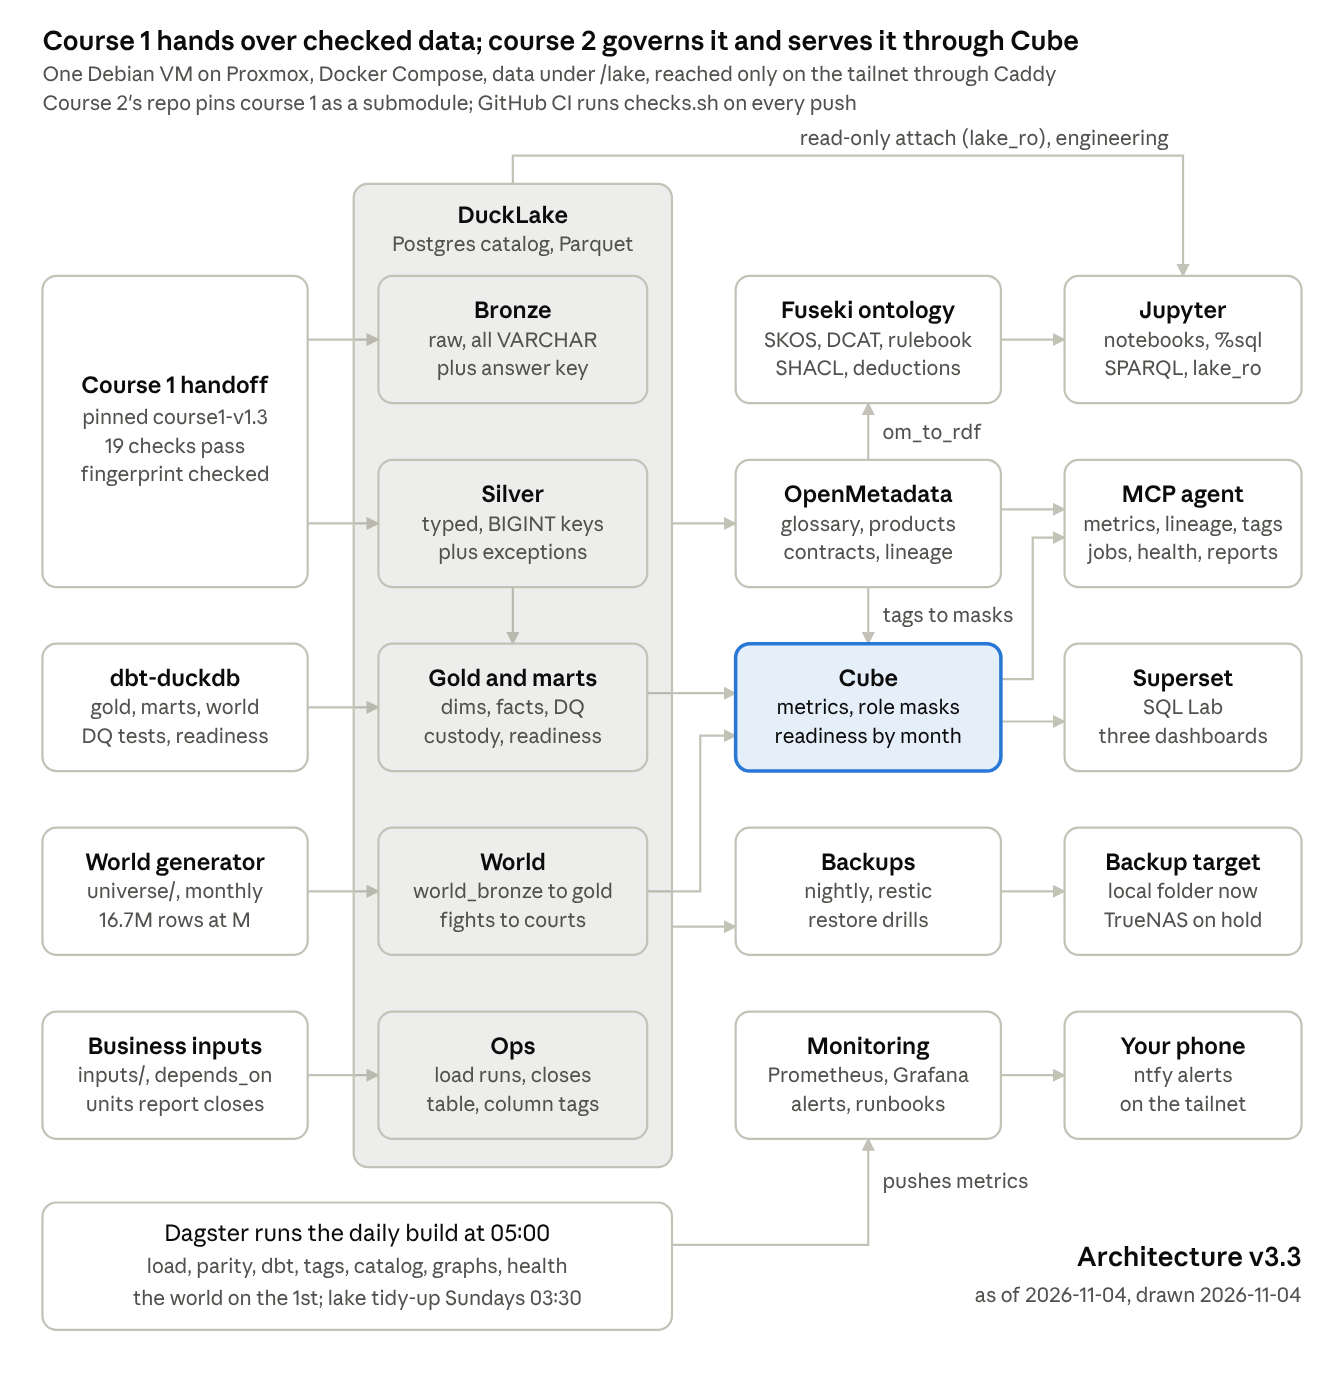
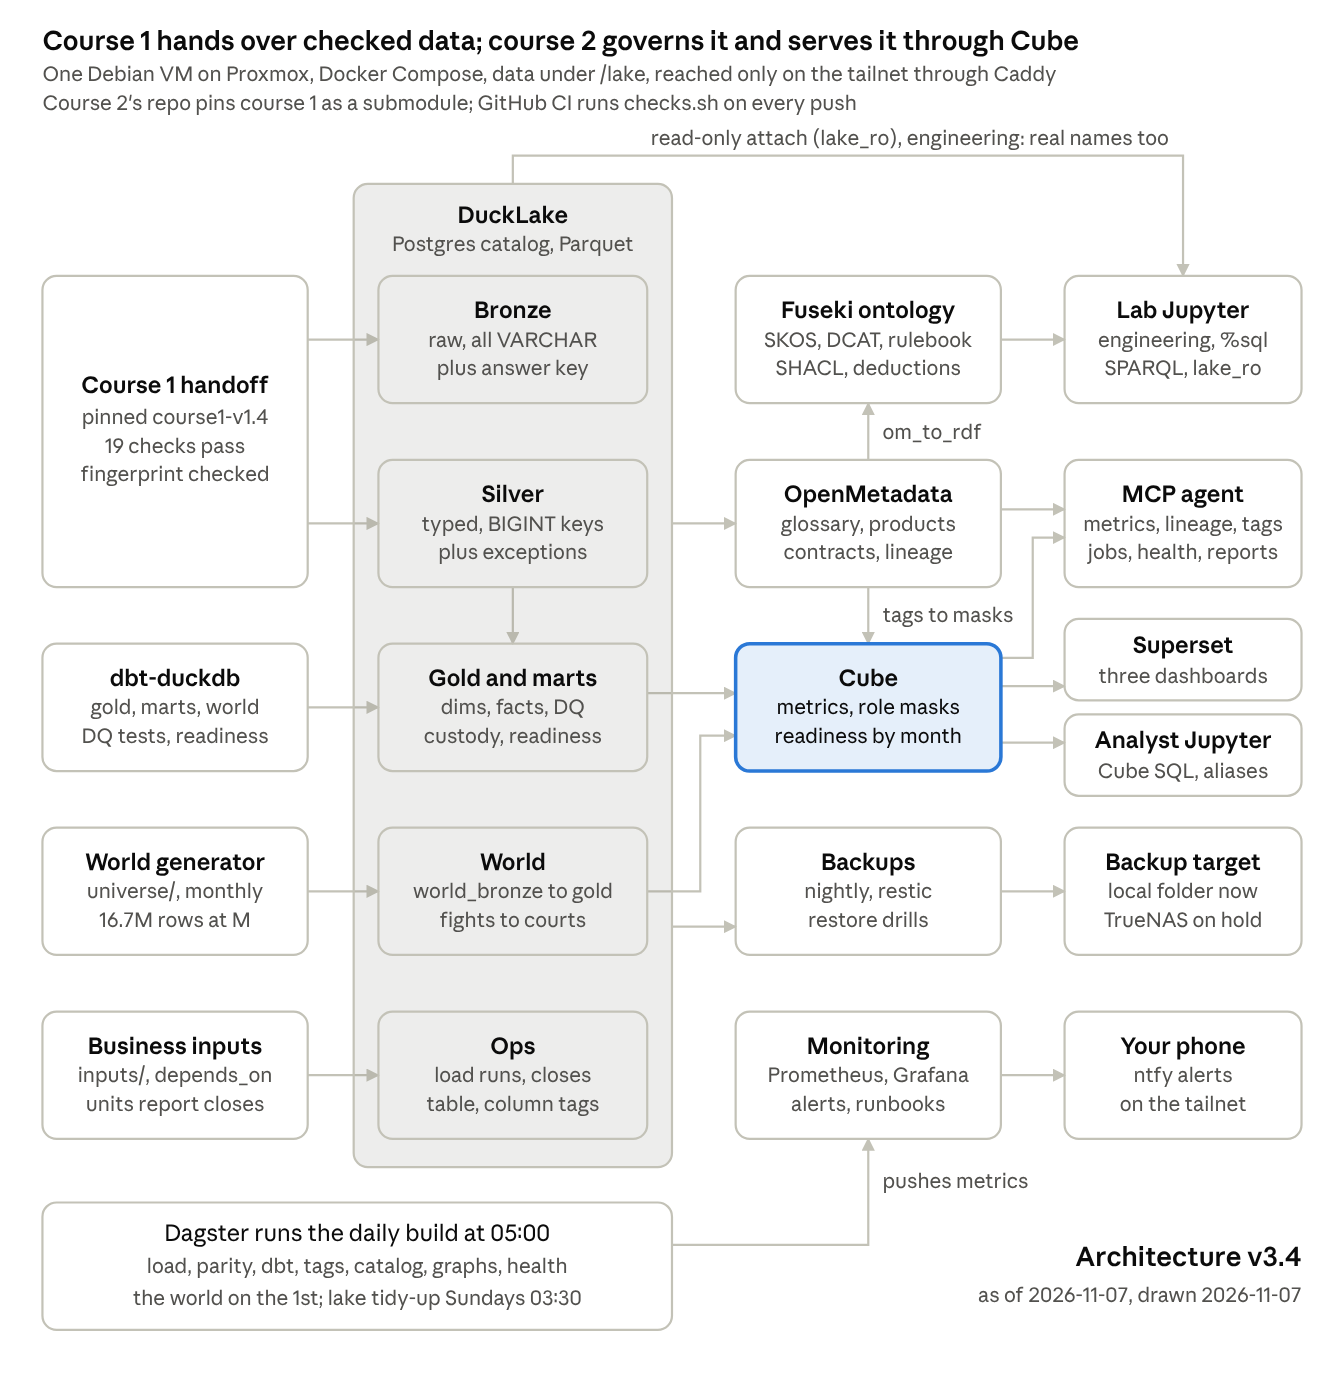
Architecture v3.4: the analyst path
The analyst path (87d5113) is a new path, so the minor version moves:
v3.4, as of 2026-11-07. The drawing shows the Lab Jupyter (engineering,
the raw lake, real names too) and the Analyst Jupyter beside Superset,
both fed by Cube; the handoff box names the current pin, course1-v1.4.
docs/architecture.png is the new picture, and the README, docs index and
the Plan, How-to, Handoff and Work Log snapshots say v3.4.

diff --git a/docs/handoff.md b/docs/handoff.md
@@ -2,13 +2,13 @@
 
 # Home Lakehouse Handoff
 
-Updated Nov 5, 2026 · @wrolfgar
+Updated Nov 7, 2026 · @wrolfgar
 
 Everything a new Claude session needs to pick up wrolfgar's home-lab DuckDB lakehouse: where it stands, how to reach it, what's built, and what not to break.
 
 ## Status right now
 
-As of 2026-11-05, 05:02 CST. Phases 0 to 6 are built and running; Phase 7 (upgrades) waits on DuckDB 2.0.1. Phase 8, the expanded world the original plan didn't have, is complete and benchmarked: about 16.7M rows at scale M in the live lab, five data products in three domains, and L (65.6M rows) built and run end to end in a scratch lake of its own. On 2026-11-02 the course boundary was built. Course 1 is sessions 1 to 7. Course 2, the lakehouse, lands course 1's pinned, checked handoff and runs none of its code. Every table and column is now tagged automatically as data lands, and the MCP server has twelve tools. Everything is reached over Tailscale at one name with a trusted certificate. The repo was anonymized on 2026-10-25 and 26 (record key `offender_number`). Since 2026-10-31 the lab has its own repo, `pugwala/homelake`, and since 2026-11-03 course 2 has its own, [pugwala/lakehouse](https://github.com/pugwala/lakehouse), with course 1 as the submodule `course1/` (homelake at the tag `course1-v1.0`). The live stack runs from it since 2026-11-03, 15:20 CST, pinned since 16:45 at course1-v1.1, where the Databricks enterprise track is split at the boundary too (course 2 has its own enterprise/ folder and helpers), and since 18:00 at course1-v1.2, where course 1's side of the VM handoff (lnl/publish.py, lnl/parity.py) lives in course 1, and since 2026-11-04 at course1-v1.3, where the enterprise notebooks say how to run them when opened outside Databricks, and since 2026-11-05 at course1-v1.4, which adds the Python mini-course (python/: six notebooks taken between the two courses). The housekeeping was done on 2026-11-04 (5747f25): the stale acceptance tests, the Superset 429 retry, the Fuseki test graph and the bootstrap --help path. Later on 2026-11-04 the MCP server gained five read-only tools (describe\_table, lineage, pipeline\_status, platform\_health, search\_incident\_reports), OpenMetadata gained dbt's lineage, and the incident reports became searchable with every personal detail replaced (world\_gold.incident\_report\_redacted and Cube's incident\_reports view). That evening chunk 11 finished the dataset expansion: four world sessions in lakehouse/sessions/, cleaning skills on the world's messy files, checked against its answer keys. The how-to document (How to Use the Home Lakehouse) is written, and the ontology guide's recipes were rerun with the world in. The architecture is versioned: v3.3, as of 2026-11-04 (the Plan's drawing, its version table, docs/architecture.png and the git tag arch-v3.3 agree). Step-by-step detail is in the [Home Lakehouse Work Log](https://claude.ai/artifact/Pr3cjkiYEo6rnXKb95XuJd).
+As of 2026-11-07, 20:58 CST. Phases 0 to 6 are built and running; Phase 7 (upgrades) waits on DuckDB 2.0.1. Phase 8, the expanded world the original plan didn't have, is complete and benchmarked: about 16.7M rows at scale M in the live lab, five data products in three domains, and L (65.6M rows) built and run end to end in a scratch lake of its own. On 2026-11-02 the course boundary was built. Course 1 is sessions 1 to 7. Course 2, the lakehouse, lands course 1's pinned, checked handoff and runs none of its code. Every table and column is now tagged automatically as data lands, and the MCP server has twelve tools. Everything is reached over Tailscale at one name with a trusted certificate. The repo was anonymized on 2026-10-25 and 26 (record key `offender_number`). Since 2026-10-31 the lab has its own repo, `pugwala/homelake`, and since 2026-11-03 course 2 has its own, [pugwala/lakehouse](https://github.com/pugwala/lakehouse), with course 1 as the submodule `course1/` (homelake at the tag `course1-v1.0`). The live stack runs from it since 2026-11-03, 15:20 CST, pinned since 16:45 at course1-v1.1, where the Databricks enterprise track is split at the boundary too (course 2 has its own enterprise/ folder and helpers), and since 18:00 at course1-v1.2, where course 1's side of the VM handoff (lnl/publish.py, lnl/parity.py) lives in course 1, and since 2026-11-04 at course1-v1.3, where the enterprise notebooks say how to run them when opened outside Databricks, and since 2026-11-05 at course1-v1.4, which adds the Python mini-course (python/: six notebooks taken between the two courses). The housekeeping was done on 2026-11-04 (5747f25): the stale acceptance tests, the Superset 429 retry, the Fuseki test graph and the bootstrap --help path. Later on 2026-11-04 the MCP server gained five read-only tools (describe\_table, lineage, pipeline\_status, platform\_health, search\_incident\_reports), OpenMetadata gained dbt's lineage, and the incident reports became searchable with every personal detail replaced (world\_gold.incident\_report\_redacted and Cube's incident\_reports view). That evening chunk 11 finished the dataset expansion: four world sessions in lakehouse/sessions/, cleaning skills on the world's messy files, checked against its answer keys. The how-to document (How to Use the Home Lakehouse) is written, and the ontology guide's recipes were rerun with the world in. On 2026-11-07 heroes and villains got their common names in SQL and the agent (with a famous cast), incident\_damage gained incident\_id and incident\_type, and the analyst path arrived: an analyst Jupyter at /analyst/ that reaches only Cube, with real names Sensitivity.Restricted and read only on the engineering path. The architecture is versioned: v3.4, as of 2026-11-07 (the Plan's drawing, its version table, docs/architecture.png and the git tag arch-v3.4 agree). Step-by-step detail is in the [Home Lakehouse Work Log](https://claude.ai/artifact/Pr3cjkiYEo6rnXKb95XuJd).
 
 **Works, verified on the VM:**
 
@@ -58,7 +58,7 @@ Every step is test-first, logged in the Work Log, and committed only when wrolfg
   - MCP tools `business_rules`, `data_product_info`, `data_quality` and `find_by_tags`.
   - Incident reports, the world's free text (Priority 5, 2026-11-03): 200,000 at M with a mention key (`mention_key/incident_report`) that says where every name, alias, SID, birth date and phone sits in the text. The approved model is complete.
   - The scale-up to L, benchmarked (chunk 10, 2026-11-03): `python -m lakehouse.universe.bench --scale L` builds a scale and runs it in a scratch DuckLake in `/lake/scratch/<scale>`, never the live lake. L (65.6M rows) builds in 164 s at a 27.6 GB peak, dbt in 44 s, queries under 0.3 s; the build's memory is the limit (`--workers 4` for less).
-  - The docs snapshots, scrubbed for the public repo: in `homelake/docs` on 2026-11-03, then in pugwala/lakehouse's `docs/`, with the architecture drawing as `docs/architecture.png` (architecture v3.3) since 2026-11-04.
+  - The docs snapshots, scrubbed for the public repo: in `homelake/docs` on 2026-11-03, then in pugwala/lakehouse's `docs/`, with the architecture drawing as `docs/architecture.png` (architecture v3.4) since 2026-11-07.
 - **Waiting on wrolfgar:**
   - wrolfgar at the agency workspace for the first real run of both enterprise tracks (the VM has no Databricks access), and the scope of the AI and Lakehouse operating-system models (chunk 11 and the how-to doc are done).
   - A TrueNAS share, and `RESTIC_PASSWORD` kept off the VM (set aside 2026-11-01; backups go to a local folder until then).
@@ -159,7 +159,7 @@ The course's own README says its notebooks were tested locally with pandas 3.0 a
 
 ## What's built
 
-Course 1 publishes its cleansed output once as a pinned handoff, checked against the Facilitator Guide's 19 numbers and fingerprinted, and the lake lands it as ref, bronze and silver (since 2026-11-02; before that the lake ran the course's own pandas cleansing). dbt builds gold and the marts; the world generator and dbt build the expanded world (`world_bronze` to `world_gold`); Dagster runs it all. The architecture is v3.3, as of 2026-11-04: see the drawing in the Plan.
+Course 1 publishes its cleansed output once as a pinned handoff, checked against the Facilitator Guide's 19 numbers and fingerprinted, and the lake lands it as ref, bronze and silver (since 2026-11-02; before that the lake ran the course's own pandas cleansing). dbt builds gold and the marts; the world generator and dbt build the expanded world (`world_bronze` to `world_gold`); Dagster runs it all. The architecture is v3.4, as of 2026-11-07: see the drawing in the Plan.
 
 **Tables (DuckLake, attached as `lake`):**
 

diff --git a/docs/lakehouse-plan.md b/docs/lakehouse-plan.md
@@ -2,7 +2,7 @@
 
 # DuckDB Home Lakehouse Plan
 
-Updated Nov 5, 2026 · @wrolfgar
+Updated Nov 7, 2026 · @wrolfgar
 
 ## Summary
 
@@ -43,6 +43,7 @@ Built beyond the plan:
 - **pugwala/lakehouse (since 2026-11-03):** course 2's own repo, with the lakehouse's history. Course 1 is the submodule `course1/`: **pugwala/homelake**, the lab's own copy of the course without the course name, at the tag `course1-v1.4`. Since November 3 the Databricks enterprise track is split at the boundary too: course 1 keeps notebooks 00 to 02 and hands the next deliveries over; course 2 has its own `enterprise/` folder and helpers. Course 1's side of the VM handoff (publish, parity) lives in course 1 too, since course1-v1.2 (course1-v1.3 since November 4: the enterprise notebooks say how to run them when opened outside Databricks; course1-v1.4 since November 5: the Python mini-course). The live stack runs from this repo since November 3; the course repo's `duckdb-lakehouse` branch is frozen.
 - **The course boundary:** course 1 is sessions 1 to 7; course 2 is the lakehouse ([boundary doc](https://claude.ai/artifact/R1688c4LU7fYfwiQGJQDij)). Course 2 starts from course 1's pinned handoff (`lakehouse/handoff/`) and runs none of its code. Course 1's Trust Test, parity gate and notebook smoke are an add-on behind one switch, `LAKEHOUSE_COURSE1`, and CI proves the platform builds with it off.
 - **Automatic tags:** `lakehouse/tagging/` registers each source (`sources.yml`) and holds the column rules (`rules.yml`). Every daily run tags each table and column, follows dbt lineage into gold, and publishes the tags to OpenMetadata. Live: 57 CJIS tables, 29 with personal data, 89 personal columns (since November 3 the incident reports' narrative too, found as free text with no rule change; since November 4 the redacted copy too, which keeps the free-text tag though every marked detail is replaced).
+- **The analyst path (since November 7):** aliases for everyone, real names restricted. The analyst Jupyter at `/analyst/` holds only the Cube login and reaches only Cube and Caddy, so heroes and villains come back by common name; real first and last names are tagged `Sensitivity.Restricted` and read only in the lab Jupyter, for the cleaning lessons.
 
 How the risks below turned out:
 
@@ -52,15 +53,15 @@ How the risks below turned out:
 
 ## Target architecture
 
-![Home lakehouse architecture v3.3, as of 2026-11-04: course 1's checked handoff lands in DuckLake; course 2 governs it and serves it through Cube](architecture.png)
+![Home lakehouse architecture v3.4, as of 2026-11-07: course 1's checked handoff lands in DuckLake; course 2 governs it and serves it through Cube](architecture.png)
 
-*Architecture v3.3, as of 2026-11-04, drawn 2026-11-04 (`architecture.png`, a picture of the live doc's drawing; git tag `arch-v3.3`).*
+*Architecture v3.4, as of 2026-11-07, drawn 2026-11-07 (`architecture.png`, a picture of the live doc's drawing; git tag `arch-v3.4`).*
 
-Read left to right. Course 1 hands over its cleansed data once, pinned and checked (the 19 Facilitator Guide numbers, a fingerprint); course 2 lands it and runs none of course 1's code. dbt, the world generator and the business units' closes build the other layers. DuckLake stores it all; automatic tags, OpenMetadata, Fuseki and Cube give it meaning, rules and readiness; people reach it through Cube, the MCP agent (twelve tools) and Superset (three dashboards over five data products), only on the tailnet. Only engineering attaches to DuckLake directly, read-only. Monitoring watches every service and rule, with a runbook per alert, and alerts reach your phone. Backups run nightly to a local folder for now (TrueNAS is on hold). The same ideas on an enterprise Databricks workspace are each course's enterprise/ track, not drawn here. This is architecture v3.3, as of November 4, 2026 (drawn November 4).
+Read left to right. Course 1 hands over its cleansed data once, pinned and checked (the 19 Facilitator Guide numbers, a fingerprint); course 2 lands it and runs none of course 1's code. dbt, the world generator and the business units' closes build the other layers. DuckLake stores it all; automatic tags, OpenMetadata, Fuseki and Cube give it meaning, rules and readiness; people reach it through Cube, the MCP agent (twelve tools), Superset (three dashboards over five data products) and the analyst Jupyter (Cube SQL, common names only), only on the tailnet. Only engineering attaches to DuckLake directly, read-only, and only there can real names be read. Monitoring watches every service and rule, with a runbook per alert, and alerts reach your phone. Backups run nightly to a local folder for now (TrueNAS is on hold). The same ideas on an enterprise Databricks workspace are each course's enterprise/ track, not drawn here. This is architecture v3.4, as of November 7, 2026 (drawn November 7).
 
 ### Architecture versions
 
-The architecture is versioned like course 1's tags (`course1-v1.4`): **major.minor, dated**. The major number changes when what the lakehouse *is* changes; the minor number counts the components, layers or paths added within that major version. Fixes, tests and documents don't change it. The version and its date sit in the drawing's corner, in the repo's copy of it (`docs/architecture.png`) and on the git tag `arch-v3.3` in pugwala/lakehouse, so a discussion can name one version and everyone looks at the same thing. The next addition makes v3.4; a change in what the lakehouse is makes v4.0.
+The architecture is versioned like course 1's tags (`course1-v1.4`): **major.minor, dated**. The major number changes when what the lakehouse *is* changes; the minor number counts the components, layers or paths added within that major version. Fixes, tests and documents don't change it. The version and its date sit in the drawing's corner, in the repo's copy of it (`docs/architecture.png`) and on the git tag `arch-v3.4` in pugwala/lakehouse, so a discussion can name one version and everyone looks at the same thing. The next addition makes v3.5; a change in what the lakehouse is makes v4.0.
 
 | Version | Date | What changed in the architecture |
 | --- | --- | --- |
@@ -83,6 +84,7 @@ The architecture is versioned like course 1's tags (`course1-v1.4`): **major.min
 | v3.1 | 2026-11-02 | Automatic tags on every table and column as data lands, published to OpenMetadata |
 | v3.2 | 2026-11-03 | Course 2 in its own repo, pugwala/lakehouse, with course 1 as a pinned submodule; the live stack runs from it. Drawn November 4 |
 | v3.3 | 2026-11-04 | The MCP agent reaches the catalog, the jobs and the platform: twelve tools (describe\_table, lineage, pipeline\_status, platform\_health, search\_incident\_reports added). OpenMetadata holds dbt's lineage; incident reports are searchable through a redacted gold table and Cube view. Drawn November 4 |
+| v3.4 | 2026-11-07 | The analyst path: an analyst Jupyter whose only way into the data is Cube's SQL (common names only), walled off on its own network; real names Sensitivity.Restricted, read only on the engineering path. Drawn November 7 |
 
 ## Phase 0: Proxmox build (1 session)
 

diff --git a/docs/work-log.md b/docs/work-log.md
@@ -132,6 +132,14 @@ cd ~/lakehouse/lakehouse && docker compose --profile core exec -T jupyter pytest
 - [ ] Site probe also fetches one of each page's scripts, so a blank page alerts (found 2026-11-07 with the OpenMetadata fix)
 - [x] Common names, chunk 2: famous villains (Joker, Magneto, Loki, ...) in the world, famous heroes as heroes and frequent; rebuild the world lake; regenerate the sessions' answer keys
 
+## 2026-11-07 · Architecture v3.4: the analyst path
+
+**Result.** The architecture is v3.4, as of 2026-11-07 (git tag `arch-v3.4`): the analyst path is a new path, so the minor number moved. The drawing, the Plan, the How-to, the Handoff, the README lines and `docs/architecture.png` all say v3.4.
+
+**What we did.** In the Plan's drawing, the right-hand column now shows the Lab Jupyter (engineering, the raw lake, real names too) and, fed by Cube beside Superset, the Analyst Jupyter (Cube SQL, aliases); the corner reads v3.4, and the handoff box's stale `course1-v1.3` became `course1-v1.4`. Staged as a draft, looked at, then published. The Plan's caption, the sentence under the drawing, the version table (a v3.4 row) and "Built beyond the plan" (the analyst path) were updated; the next addition makes v3.5. The snapshots and `scrub.py`'s picture caption were refreshed, then the commit was tagged.
+
+**What verified it.** The draft's screenshot showed every label inside its box and every connector landing on an edge; the scrubbed snapshots passed the leftover checks, the branding guard and the tieback check.
+
 ## 2026-11-07 · The analyst path: aliases for everyone, real names restricted
 
 **Result.** Analysts have their own Jupyter at `/analyst/` (`analyst-jupyter`), whose only way into the data is Cube's SQL API (`%load_ext cube_sql`), so heroes and villains come back by common name only. Real first and last names are now `Sensitivity.Restricted` and read only on the engineering path, the lab Jupyter. wrolfgar chose "Aliases for all, names restricted" and asked for all five steps, committed.
@@ -147,7 +155,7 @@ cd ~/lakehouse/lakehouse && docker compose --profile core exec -T jupyter pytest
 
 **What verified it.** Tests first: 8 analyst unit tests and 3 live ones went red, then green; 4 tag-swap tests. Unit 266 of 266, bats 73 of 73, `checks.sh` all passed, acceptance 447 of 447 after two old tests were updated to Restricted. The self-check passes inside the container (top villains JOKER, MAGNETO, LOKI); the starter notebook runs end to end there. 7 deliberate breaks caught, after a test was added for the one survivor (Derived tags left alone). The two bats tests came after the code, prompted by the failures, so they had no red run of their own.
 
-**Still open.** Architecture v3.4: the analyst path is a new path, so the drawing, version table and tag need a bump pass.
+**Still open.** Nothing: the v3.4 bump was done the same evening (next entry up).
 
 ## 2026-11-07 · incident\_damage names the fight and its kind
 

diff --git a/docs/how-to.md b/docs/how-to.md
@@ -6,7 +6,7 @@ Updated Nov 7, 2026 · @wrolfgar
 
 ## Start here
 
-The home lakehouse is one Debian VM: about 16.7 million rows of mock data in DuckLake, governed and served by eleven sites on one Tailscale name. Course 1 hands over its cleansed records; course 2, this lakehouse, lands them, builds the expanded world around them, and serves both through Cube. The architecture drawing (v3.3) is in the [Plan](https://claude.ai/artifact/Js8ovfd7HE7BJ5Sj6TS3Sj).
+The home lakehouse is one Debian VM: about 16.7 million rows of mock data in DuckLake, governed and served by eleven sites on one Tailscale name. Course 1 hands over its cleansed records; course 2, this lakehouse, lands them, builds the expanded world around them, and serves both through Cube. The architecture drawing (v3.4) is in the [Plan](https://claude.ai/artifact/Js8ovfd7HE7BJ5Sj6TS3Sj).
 
 **Reaching it.** Every site is at `<tailnet-host>`, from any device on the tailnet, with a real certificate. Nothing is open to the internet.
 
@@ -328,8 +328,8 @@ bash ~/lakehouse/lakehouse/scripts/bootstrap.sh --check  # is everything in step
 
 **Docs in the repo.** The Claude Docs (this one, the Plan, the Handoff, the Work Log, the ontology guide and the course boundary) are the live copies. Scrubbed Markdown snapshots of them sit in `pugwala/lakehouse`'s `docs/`, refreshed whenever the docs change, with names and network addresses replaced.
 
-**Architecture versions.** The architecture is versioned major.minor and dated: **v3.3, as of November 4, 2026**. The version is in the drawing's corner, `docs/architecture.png` and git tag `arch-v3.3`.
+**Architecture versions.** The architecture is versioned major.minor and dated: **v3.4, as of November 7, 2026**. The version is in the drawing's corner, `docs/architecture.png` and git tag `arch-v3.4`.
 
-- **A new component, layer or path** makes v3.4.
+- **A new component, layer or path** makes v3.5.
 - **A change in what the lakehouse is** makes v4.0.
 - **Fixes, tests and documents** don't change it.

diff --git a/docs/README.md b/docs/README.md
@@ -25,5 +25,5 @@ Who's who in these docs:
 
 The Claude Doc links open only for their owner; the Markdown here is the readable copy. Diagrams embedded in
 the docs don't export. The Plan's architecture drawing is committed as a picture,
-[architecture.png](architecture.png): **architecture v3.3, as of 2026-11-04** (git tag `arch-v3.3`), and
+[architecture.png](architecture.png): **architecture v3.4, as of 2026-11-07** (git tag `arch-v3.4`), and
 lakehouse-plan.md shows it with the table of every version. The ontology guide's figures still show as placeholders.

diff --git a/README.md b/README.md
@@ -23,7 +23,7 @@ git clone --recurse-submodules https://github.com/pugwala/lakehouse.git ~/lakeho
 bash ~/lakehouse/lakehouse/scripts/bootstrap.sh
 ```
 
-**Architecture v3.3, as of 2026-11-04** ([the drawing](docs/architecture.png), git tag `arch-v3.3`), versioned major.minor
+**Architecture v3.4, as of 2026-11-07** ([the drawing](docs/architecture.png), git tag `arch-v3.4`), versioned major.minor
 like course 1's tags; [the Plan](docs/lakehouse-plan.md#architecture-versions) lists every version.
 
 ## Where to start
